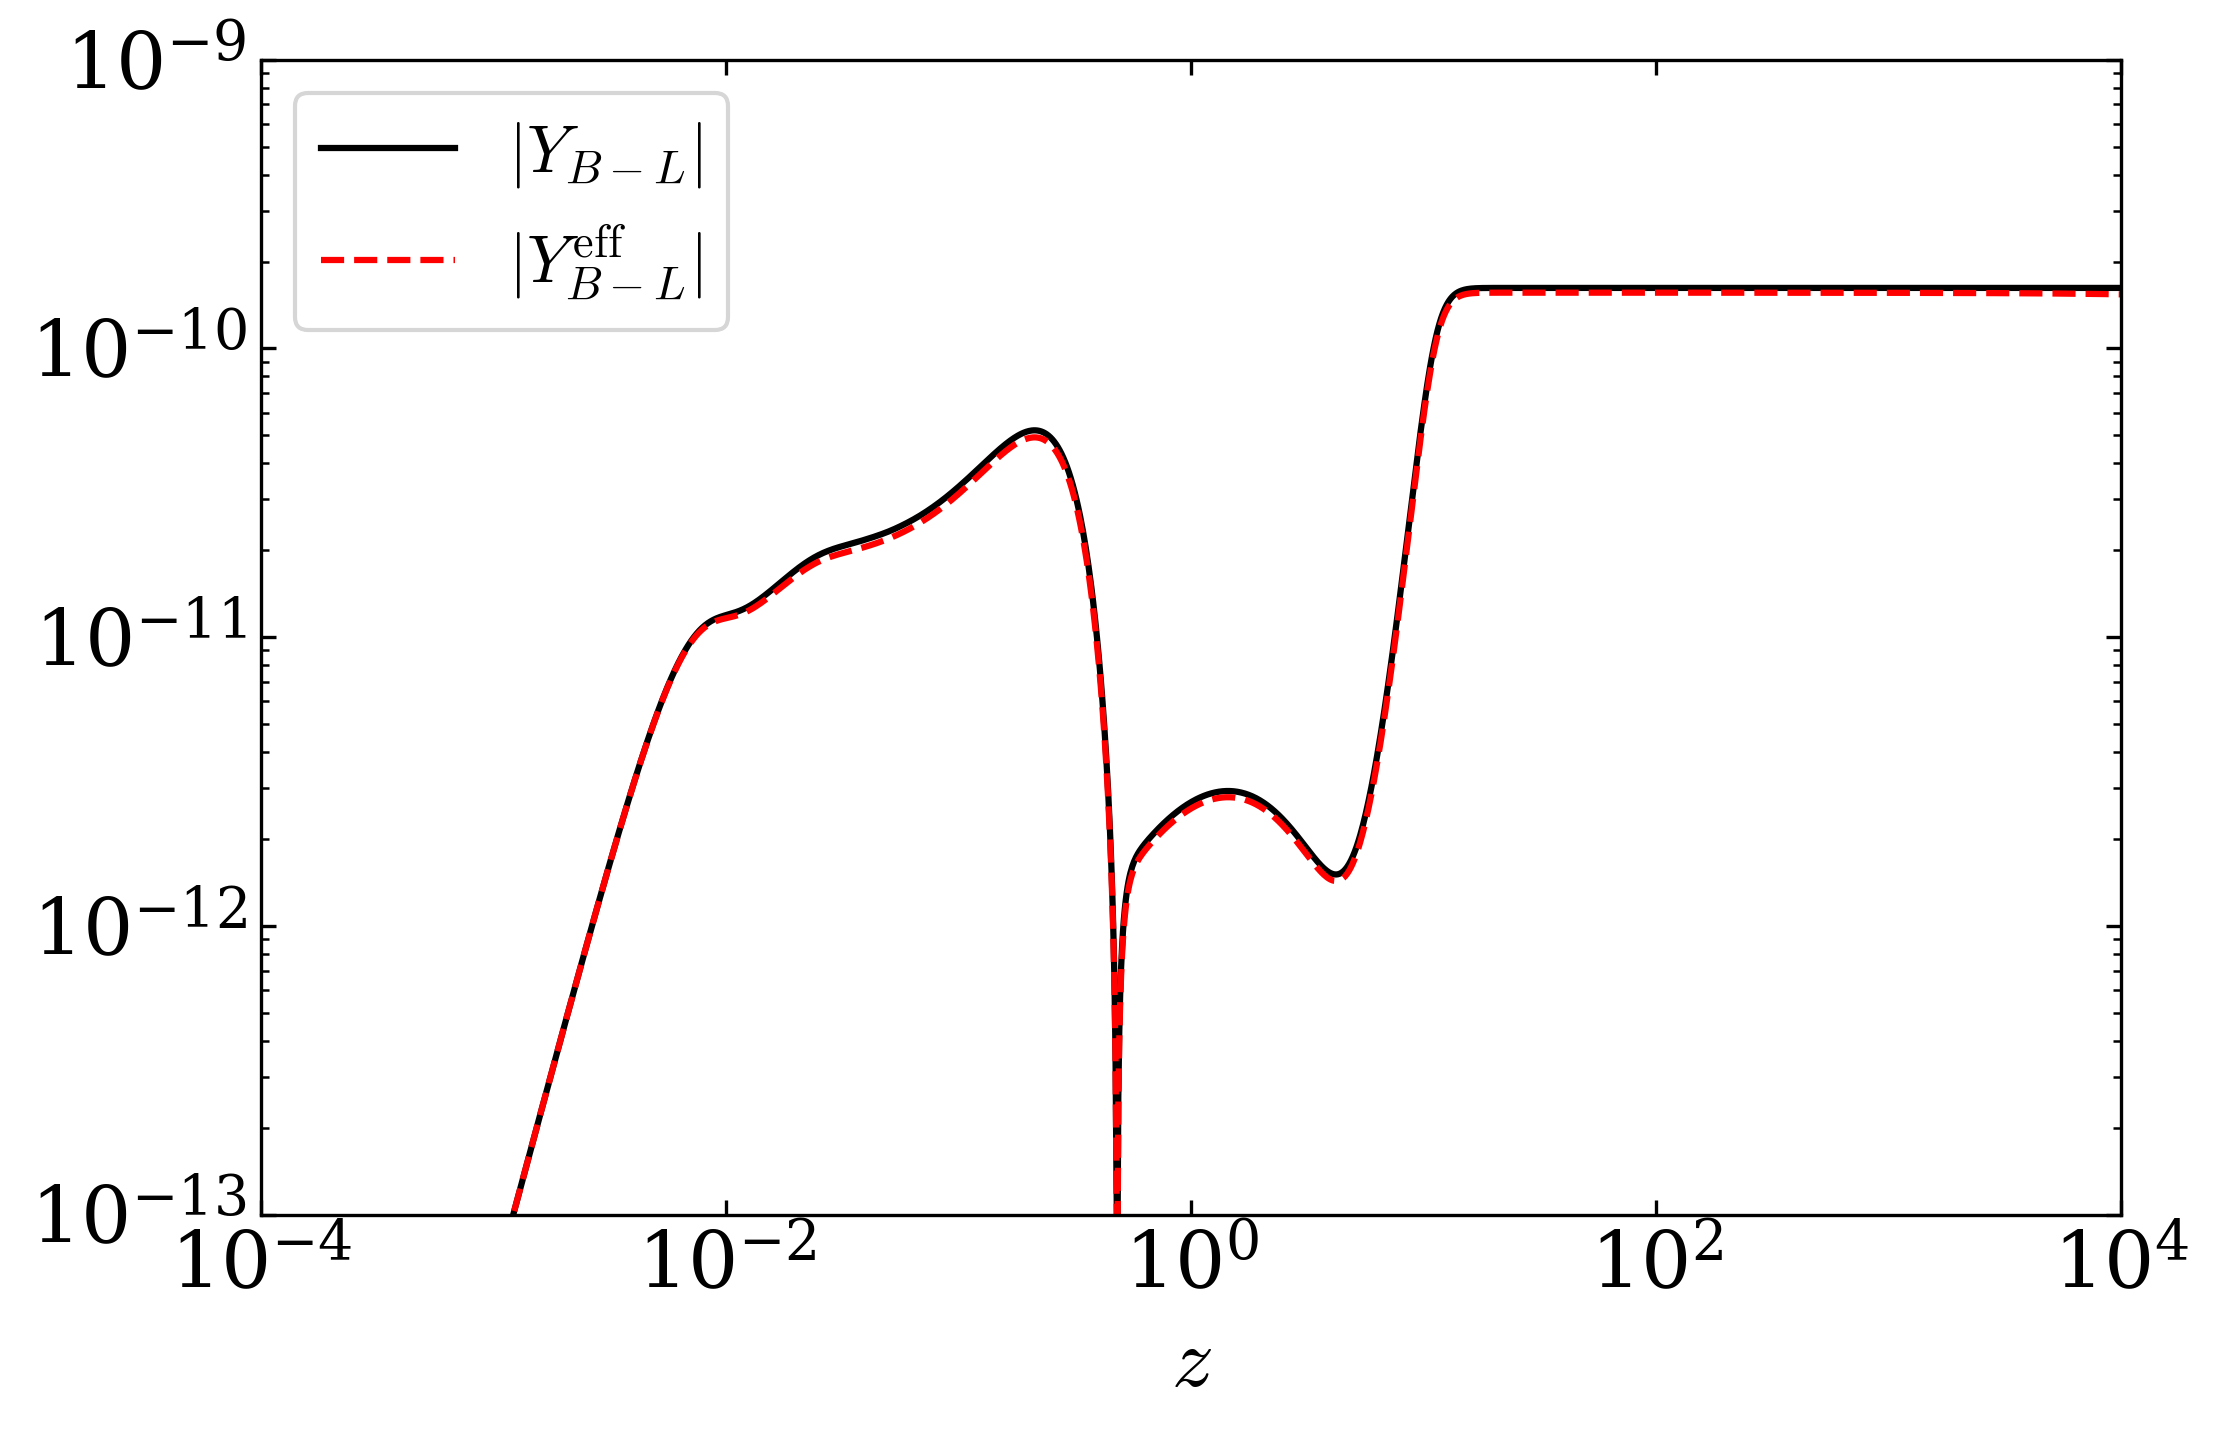
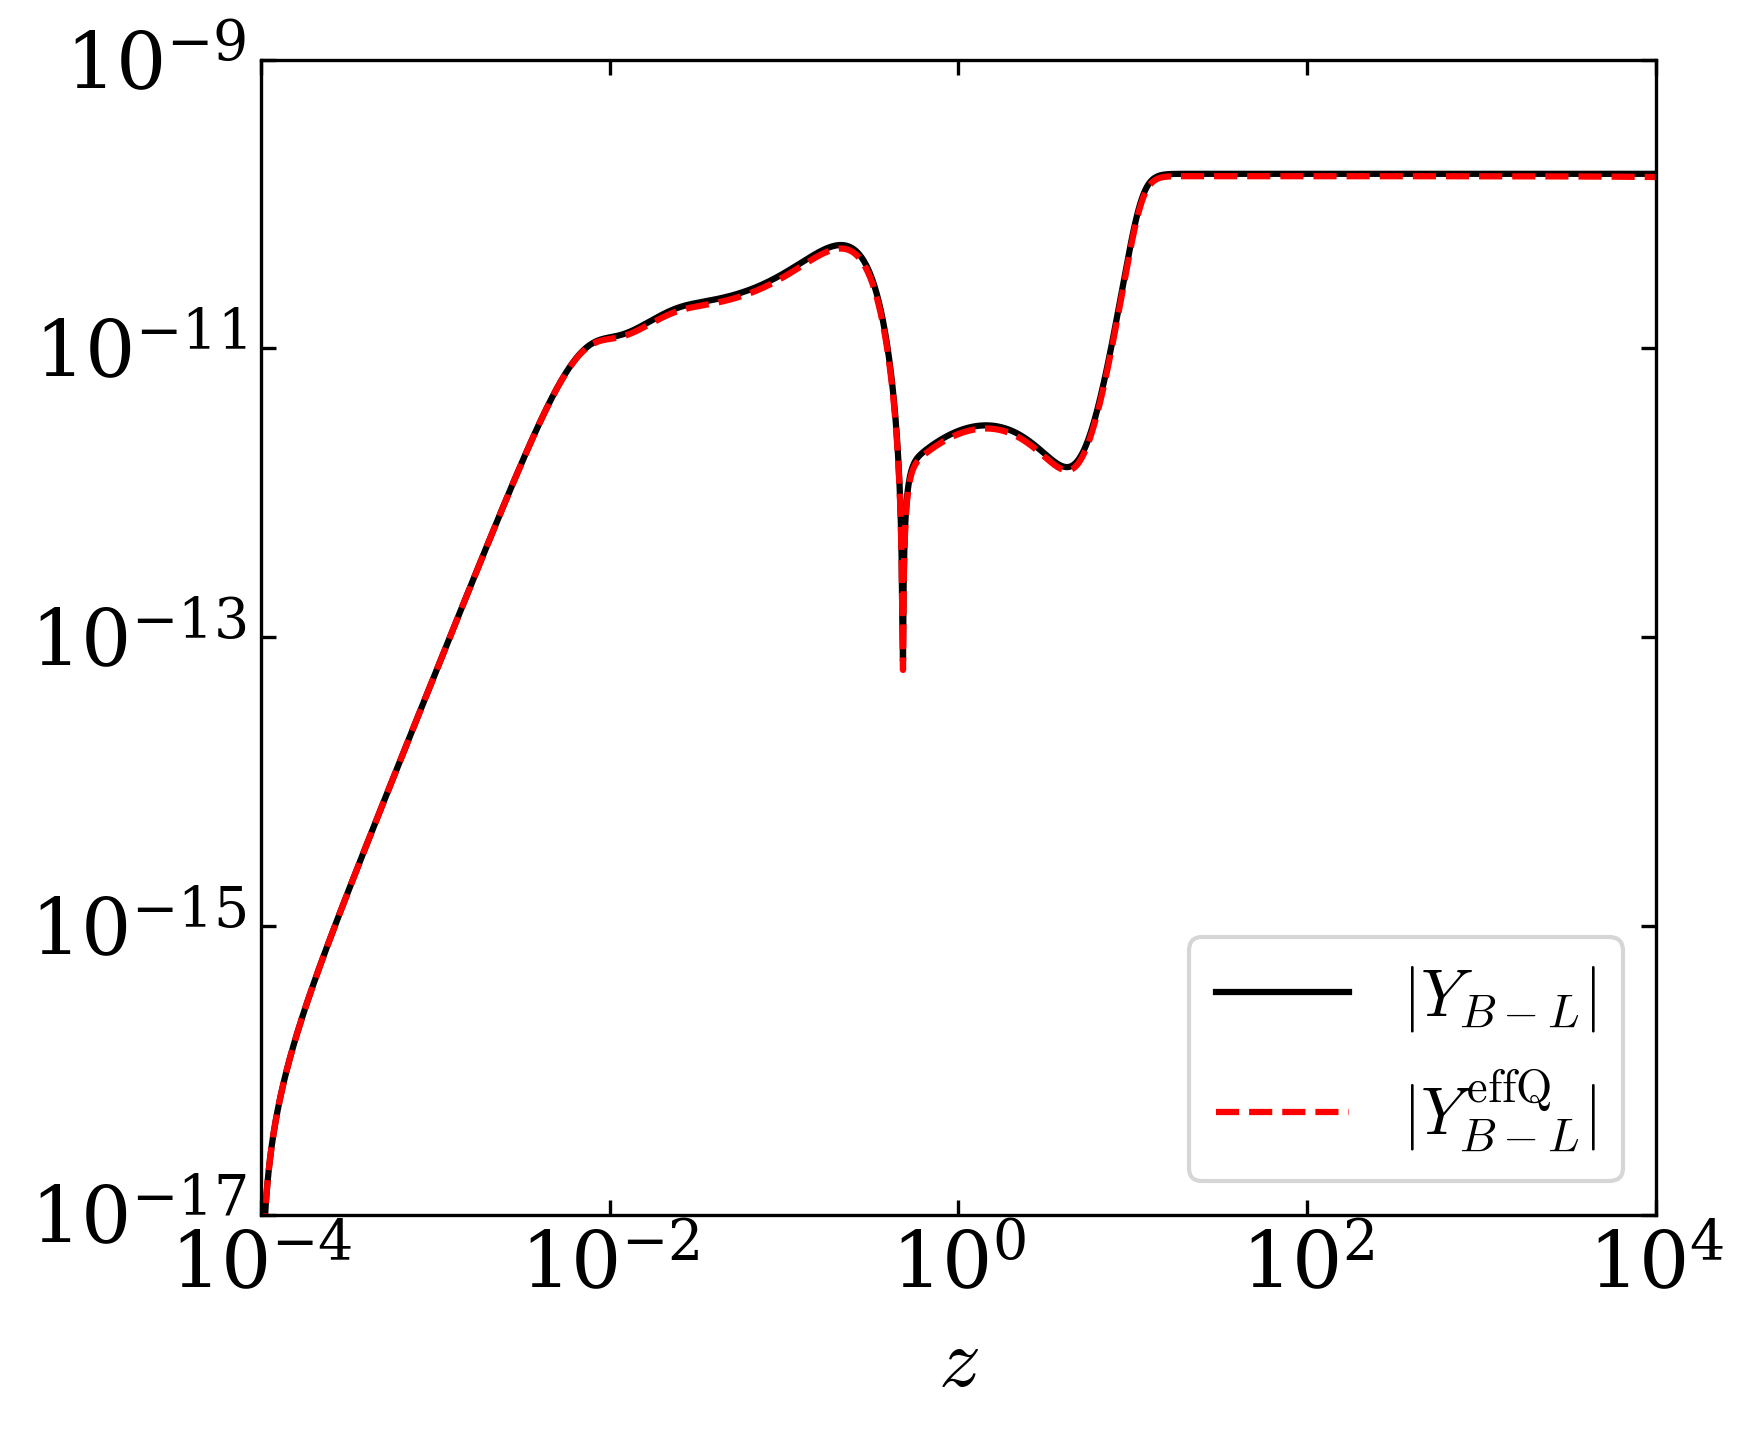
Solve of BOLEH initialization

diff --git a/src/BOLEH/Quarkcovariant/InterfaceQuark.py b/src/BOLEH/Quarkcovariant/InterfaceQuark.py
@@ -8,7 +8,7 @@ from .physicsQuark import params_def
 import matplotlib.pyplot as plt
 import numpy as np
 import h5py
-from Quarkcovariant import * 
+from .physicsQuark import * 
 def PlotResultsQuark(results, filename):
     z = results["z"]
     YTDelta = results["YTDelta"]

diff --git a/src/BOLEH/Leptoncovariant/InterfaceL.py b/src/BOLEH/Leptoncovariant/InterfaceL.py
@@ -8,7 +8,7 @@ from .physicsL import params_def
 import matplotlib.pyplot as plt
 import numpy as np
 import h5py
-from leptogenesis import * 
+from .physicsL import * 
 def PlotResultsLE(results, filename):
     z = results["z"]
     YTDelta = results["YTDelta"]

diff --git a/src/BOLEH/SMCovariant/InterfaceSM.py b/src/BOLEH/SMCovariant/InterfaceSM.py
@@ -5,7 +5,7 @@ from .physicsSM import params_def
 import matplotlib.pyplot as plt
 import numpy as np
 import h5py  # 
-from baryogenesis import * 
+from .physicsSM import * 
 
 def PlotResults(results, filename):
     z = results["z"]
